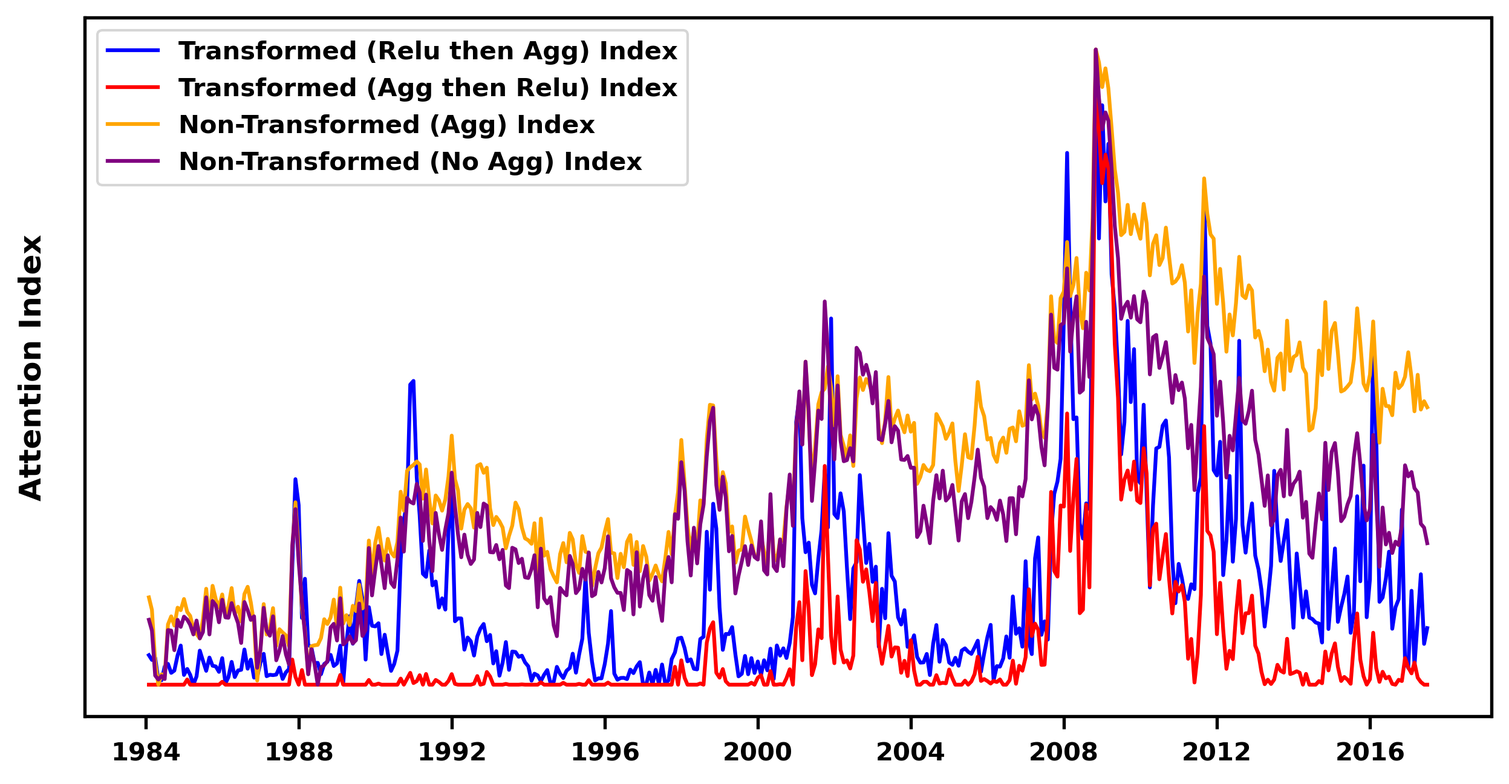
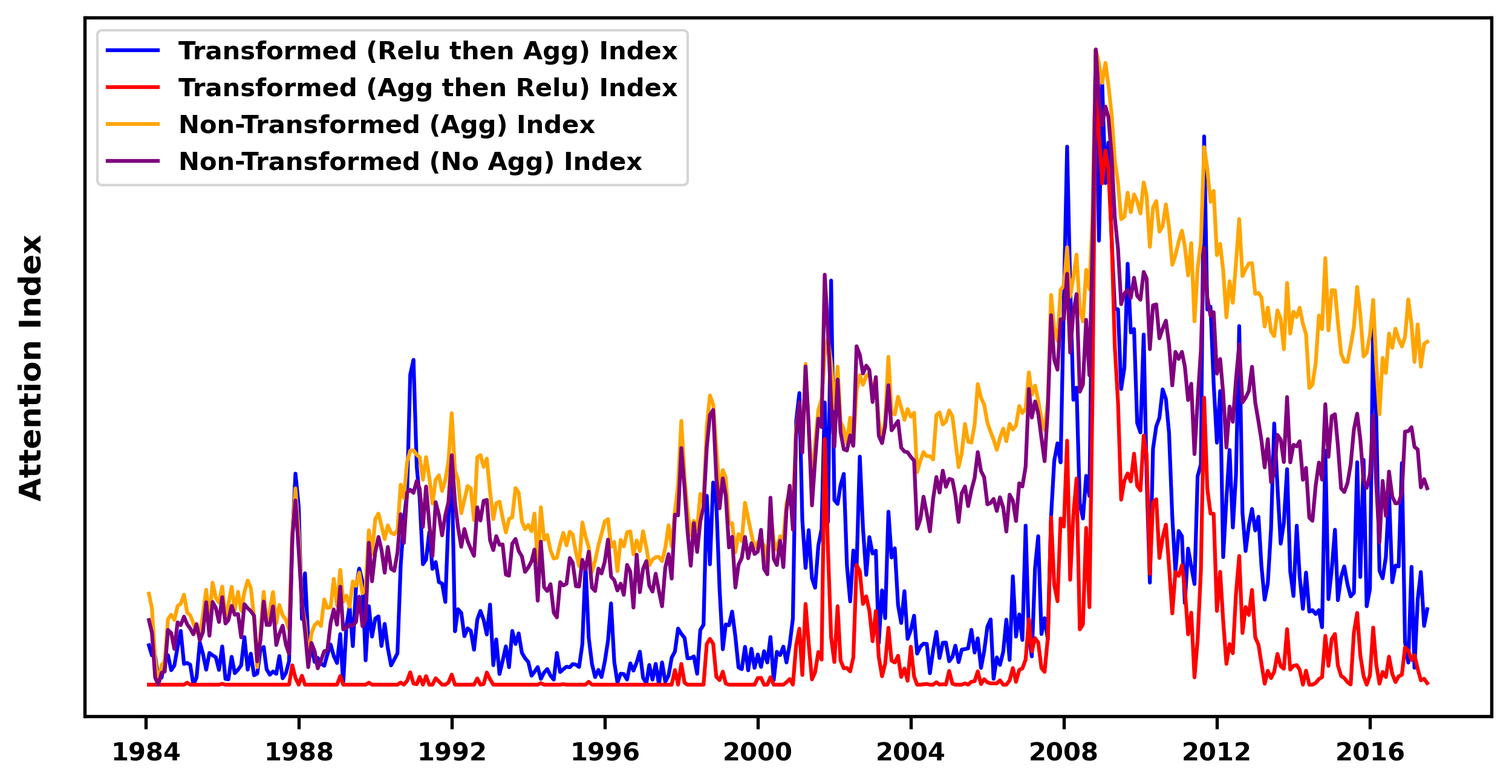
new updated plots with updated legend

Changed region(s): [[0.0926, 0.1235, 0.9567, 0.8951], [0.2469, 0.463, 0.2778, 0.4938], [0.1852, 0.6173, 0.216, 0.6481]]

diff --git a/exec_research/exec_generate/generate_paper_plot.py b/exec_research/exec_generate/generate_paper_plot.py
@@ -83,7 +83,7 @@ if __name__ == "__main__":
     # generate = GenEmb(query=query, expand=expand, info=info, vector_data=vector_data, vector_column=vector_column, article_data=article_data, interval=interval, p_val=p_val)
     # index, expanded_query, threshold = generate.generate_emb()
     # index = generate._join_index(index=index, interval=interval, file_path='esg_google_trend.parquet.brotli')
-    # generate.save(query=query, expanded_query=expanded_query, p_val=p_val, threshold=threshold, pearson=0, index_paper=index[['relu_score', 'official']], index_research=index[['relu_score', 'relu_norm_score', 'agg_norm_score', 'norm_score']], index_name_paper=['ESG', 'ESG (Google Trend)'], index_name_research=['Transformed (Relu then Agg)', 'Transformed (Agg then Relu)', 'Non-Transformed (Agg)', 'Non-Transformed (No Agg)'], output=f'{type}_esg_index')
+    # generate.save(query=query, expanded_query=expanded_query, p_val=p_val, threshold=threshold, pearson=0, index_paper=index[['relu_score', 'official']], index_research=index[['relu_score', 'relu_norm_score', 'agg_norm_score', 'norm_score']], index_name_paper=['Narrative Query: ESG', 'Google Trend: ESG'], index_name_research=['Transformed (Relu then Agg)', 'Transformed (Agg then Relu)', 'Non-Transformed (Agg)', 'Non-Transformed (No Agg)'], output=f'{type}_esg_index')
     #
     # # ------------------------------------------------------------------------------------------------------------------------------------------------------------------------------------------------
     # # ------------------------------------------------------------------------------------------------------------------------------------------------------------------------------------------------
@@ -92,8 +92,8 @@ if __name__ == "__main__":
     # generate = GenEmb(query=query, expand=expand, info=info, vector_data=vector_data, vector_column=vector_column, article_data=article_data, interval=interval, p_val=p_val)
     # index, expanded_query, threshold = generate.generate_emb()
     # index = generate._standardize(index)
-    # generate.save(query=query, expanded_query=expanded_query, p_val=p_val, threshold=threshold, pearson=0, index_paper=index[['relu_score']], index_research=index[['relu_score', 'relu_norm_score', 'agg_norm_score', 'norm_score']], index_name_paper=['Market Crash'], index_name_research=['Transformed (Relu then Agg)', 'Transformed (Agg then Relu)', 'Non-Transformed (Agg)', 'Non-Transformed (No Agg)'], output=f'{type}_marketcrash_index')
-
+    # generate.save(query=query, expanded_query=expanded_query, p_val=p_val, threshold=threshold, pearson=0, index_paper=index[['relu_score']], index_research=index[['relu_score', 'relu_norm_score', 'agg_norm_score', 'norm_score']], index_name_paper=['Narrative Query: Market Crash'], index_name_research=['Transformed (Relu then Agg)', 'Transformed (Agg then Relu)', 'Non-Transformed (Agg)', 'Non-Transformed (No Agg)'], output=f'{type}_marketcrash_index')
+    #
     # # ------------------------------------------------------------------------------------------------------------------------------------------------------------------------------------------------
     # # ------------------------------------------------------------------------------------------------------------------------------------------------------------------------------------------------
     # print("-" * 120)
@@ -101,8 +101,8 @@ if __name__ == "__main__":
     # generate = GenEmb(query=query, expand=expand, info=info, vector_data=vector_data, vector_column=vector_column, article_data=article_data, interval=interval, p_val=p_val)
     # index, expanded_query, threshold = generate.generate_emb()
     # index = generate._standardize(index)
-    # generate.save(query=query, expanded_query=expanded_query, p_val=p_val, threshold=threshold, pearson=0, index_paper=index[['relu_score']], index_research=index[['relu_score', 'relu_norm_score', 'agg_norm_score', 'norm_score']], index_name_paper=['Stock Market Bubble'], index_name_research=['Transformed (Relu then Agg)', 'Transformed (Agg then Relu)', 'Non-Transformed (Agg)', 'Non-Transformed (No Agg)'], output=f'{type}_stockmarketbubble_index')
-
+    # generate.save(query=query, expanded_query=expanded_query, p_val=p_val, threshold=threshold, pearson=0, index_paper=index[['relu_score']], index_research=index[['relu_score', 'relu_norm_score', 'agg_norm_score', 'norm_score']], index_name_paper=['Narrative Query: Stock Market Bubble'], index_name_research=['Transformed (Relu then Agg)', 'Transformed (Agg then Relu)', 'Non-Transformed (Agg)', 'Non-Transformed (No Agg)'], output=f'{type}_stockmarketbubble_index')
+    #
     # # ------------------------------------------------------------------------------------------------------------------------------------------------------------------------------------------------
     # # ------------------------------------------------------------------------------------------------------------------------------------------------------------------------------------------------
     # print("-" * 120)
@@ -110,7 +110,7 @@ if __name__ == "__main__":
     # generate = GenEmb(query=query, expand=expand, info=info, vector_data=vector_data, vector_column=vector_column, article_data=article_data, interval=interval, p_val=p_val)
     # index, expanded_query, threshold = generate.generate_emb()
     # index = generate._standardize(index)
-    # generate.save(query=query, expanded_query=expanded_query, p_val=p_val, threshold=threshold, pearson=0, index_paper=index[['relu_score']], index_research=index[['relu_score', 'relu_norm_score', 'agg_norm_score', 'norm_score']], index_name_paper=['US-China Trade War'], index_name_research=['Transformed (Relu then Agg)', 'Transformed (Agg then Relu)', 'Non-Transformed (Agg)', 'Non-Transformed (No Agg)'], output=f'{type}_uschinatradewar_index')
+    # generate.save(query=query, expanded_query=expanded_query, p_val=p_val, threshold=threshold, pearson=0, index_paper=index[['relu_score']], index_research=index[['relu_score', 'relu_norm_score', 'agg_norm_score', 'norm_score']], index_name_paper=['Narrative Query: US-China Trade War'], index_name_research=['Transformed (Relu then Agg)', 'Transformed (Agg then Relu)', 'Non-Transformed (Agg)', 'Non-Transformed (No Agg)'], output=f'{type}_uschinatradewar_index')
     #
     # # ------------------------------------------------------------------------------------------------------------------------------------------------------------------------------------------------
     # # ------------------------------------------------------------------------------------------------------------------------------------------------------------------------------------------------
@@ -119,7 +119,7 @@ if __name__ == "__main__":
     # generate = GenEmb(query=query, expand=expand, info=info, vector_data=vector_data, vector_column=vector_column, article_data=article_data, interval=interval, p_val=p_val)
     # index, expanded_query, threshold = generate.generate_emb()
     # index = generate._standardize(index)
-    # generate.save(query=query, expanded_query=expanded_query, p_val=p_val, threshold=threshold, pearson=0, index_paper=index[['relu_score']], index_research=index[['relu_score', 'relu_norm_score', 'agg_norm_score', 'norm_score']], index_name_paper=['Artificial Intelligence'], index_name_research=['Transformed (Relu then Agg)', 'Transformed (Agg then Relu)', 'Non-Transformed (Agg)', 'Non-Transformed (No Agg)'], output=f'{type}_ai_index')
+    # generate.save(query=query, expanded_query=expanded_query, p_val=p_val, threshold=threshold, pearson=0, index_paper=index[['relu_score']], index_research=index[['relu_score', 'relu_norm_score', 'agg_norm_score', 'norm_score']], index_name_paper=['Narrative Query: Artificial Intelligence'], index_name_research=['Transformed (Relu then Agg)', 'Transformed (Agg then Relu)', 'Non-Transformed (Agg)', 'Non-Transformed (No Agg)'], output=f'{type}_ai_index')
     #
     # # ------------------------------------------------------------------------------------------------------------------------------------------------------------------------------------------------
     # # ------------------------------------------------------------------------------------------------------------------------------------------------------------------------------------------------
@@ -128,7 +128,7 @@ if __name__ == "__main__":
     # generate = GenEmb(query=query, expand=expand, info=info, vector_data=vector_data, vector_column=vector_column, article_data=article_data, interval=interval, p_val=p_val)
     # index, expanded_query, threshold = generate.generate_emb()
     # index = generate._standardize(index)
-    # generate.save(query=query, expanded_query=expanded_query, p_val=p_val, threshold=threshold, pearson=0, index_paper=index[['relu_score']], index_research=index[['relu_score', 'relu_norm_score', 'agg_norm_score', 'norm_score']], index_name_paper=['Blockchain'], index_name_research=['Transformed (Relu then Agg)', 'Transformed (Agg then Relu)', 'Non-Transformed (Agg)', 'Non-Transformed (No Agg)'], output=f'{type}_blockchain_index')
+    # generate.save(query=query, expanded_query=expanded_query, p_val=p_val, threshold=threshold, pearson=0, index_paper=index[['relu_score']], index_research=index[['relu_score', 'relu_norm_score', 'agg_norm_score', 'norm_score']], index_name_paper=['Narrative Query: Blockchain'], index_name_research=['Transformed (Relu then Agg)', 'Transformed (Agg then Relu)', 'Non-Transformed (Agg)', 'Non-Transformed (No Agg)'], output=f'{type}_blockchain_index')
     #
     # # ------------------------------------------------------------------------------------------------------------------------------------------------------------------------------------------------
     # # ------------------------------------------------------------------------------------------------------------------------------------------------------------------------------------------------
@@ -137,62 +137,61 @@ if __name__ == "__main__":
     # generate = GenEmb(query=query, expand=False, info=info, vector_data=vector_data, vector_column=vector_column, article_data=article_data, interval=interval, p_val=p_val)
     # index, expanded_query, threshold = generate.generate_emb()
     # index = generate._standardize(index)
-    # generate.save(query=query, expanded_query=expanded_query, p_val=p_val, threshold=threshold, pearson=0, index_paper=index[['relu_score']], index_research=index[['relu_score', 'relu_norm_score', 'agg_norm_score', 'norm_score']], index_name_paper=['COVID-19'], index_name_research=['Transformed (Relu then Agg)', 'Transformed (Agg then Relu)', 'Non-Transformed (Agg)', 'Non-Transformed (No Agg)'], output=f'{type}_covid19_index')
-
-    # # ------------------------------------------------------------------------------------------------------------------------------------------------------------------------------------------------
-    # # ------------------------------------------------------------------------------------------------------------------------------------------------------------------------------------------------
-    # print("-" * 120)
-    # query = 'Electric Vehicles'
-    # generate = GenEmb(query=query, expand=expand, info=info, vector_data=vector_data, vector_column=vector_column, article_data=article_data, interval=interval, p_val=p_val)
-    # index, expanded_query, threshold = generate.generate_emb()
-    # index = generate._join_index(index=index, interval=interval, file_path='tsla.parquet.brotli')
-    # generate.save(query=query, expanded_query=expanded_query, p_val=p_val, threshold=threshold, pearson=pearson_corr, index_paper=index[['relu_score', 'official']], index_research=index[['relu_score', 'relu_norm_score', 'agg_norm_score', 'norm_score']], index_name_paper=['Electric Vehicles', 'TSLA Price (WRDS)'], index_name_research=['Transformed (Relu then Agg)', 'Transformed (Agg then Relu)', 'Non-Transformed (Agg)', 'Non-Transformed (No Agg)'], output=f'{type}_ev_index')
-    #
-    # # ------------------------------------------------------------------------------------------------------------------------------------------------------------------------------------------------
-    # # ------------------------------------------------------------------------------------------------------------------------------------------------------------------------------------------------
-    # print("-" * 120)
-    # query = 'US Economic Policy Uncertainty'
-    # generate = GenEmb(query=query, expand=expand, info=info, vector_data=vector_data, vector_column=vector_column, article_data=article_data, interval=interval, p_val=p_val)
-    # index, expanded_query, threshold = generate.generate_emb()
-    # index, pearson_corr = generate._compare_index(index=index, interval=interval, file_path='epu.parquet.brotli')
-    # generate.save(query=query, expanded_query=expanded_query, p_val=p_val, threshold=threshold, pearson=pearson_corr, index_paper=index[['relu_score', 'official']], index_research=index[['relu_score', 'relu_norm_score', 'agg_norm_score', 'norm_score']], index_name_paper=['US EPU', 'US EPU (Baker et al.)'], index_name_research=['Transformed (Relu then Agg)', 'Transformed (Agg then Relu)', 'Non-Transformed (Agg)', 'Non-Transformed (No Agg)'], output=f'{type}_usepu_index')
-    #
-    # # ------------------------------------------------------------------------------------------------------------------------------------------------------------------------------------------------
-    # # ------------------------------------------------------------------------------------------------------------------------------------------------------------------------------------------------
-    # print("-" * 120)
-    # query = 'Inflation'
-    # generate = GenEmb(query=query, expand=expand, info=info, vector_data=vector_data, vector_column=vector_column, article_data=article_data, interval=interval, p_val=p_val)
-    # index, expanded_query, threshold = generate.generate_emb()
-    # index, pearson_corr = generate._compare_index(index=index, interval=interval, file_path='ir.parquet.brotli')
-    # generate.save(query=query, expanded_query=expanded_query, p_val=p_val, threshold=threshold, pearson=pearson_corr, index_paper=index[['relu_score', 'official']], index_research=index[['relu_score', 'relu_norm_score', 'agg_norm_score', 'norm_score']], index_name_paper=['Inflation', '5-Year Breakeven Inflation Rate (FRED)'], index_name_research=['Transformed (Relu then Agg)', 'Transformed (Agg then Relu)', 'Non-Transformed (Agg)', 'Non-Transformed (No Agg)'], output=f'{type}_inflation_index')
-    #
-    # # ------------------------------------------------------------------------------------------------------------------------------------------------------------------------------------------------
-    # # ------------------------------------------------------------------------------------------------------------------------------------------------------------------------------------------------
-    # print("-" * 120)
-    # query = 'Economic Recession'
-    # generate = GenEmb(query=query, expand=expand, info=info, vector_data=vector_data, vector_column=vector_column, article_data=article_data, interval=interval, p_val=p_val)
-    # index, expanded_query, threshold = generate.generate_emb()
-    # index, pearson_corr = generate._compare_index(index=index, interval=interval, file_path='recession.parquet.brotli')
-    # generate.save(query=query, expanded_query=expanded_query, p_val=p_val, threshold=threshold, pearson=pearson_corr, index_paper=index[['relu_score', 'official']], index_research=index[['relu_score', 'relu_norm_score', 'agg_norm_score', 'norm_score']], index_name_paper=['Economic Recession', 'Economic Recession (Bybee et al.)'], index_name_research=['Transformed (Relu then Agg)', 'Transformed (Agg then Relu)', 'Non-Transformed (Agg)', 'Non-Transformed (No Agg)'], output=f'{type}_economicrecession_index')
-    #
-    # # ------------------------------------------------------------------------------------------------------------------------------------------------------------------------------------------------
-    # # ------------------------------------------------------------------------------------------------------------------------------------------------------------------------------------------------
-    # print("-" * 120)
-    # query = 'Systemic Financial Stress'
-    # generate = GenEmb(query=query, expand=expand, info=info, vector_data=vector_data, vector_column=vector_column, article_data=article_data, interval=interval, p_val=p_val)
-    # index, expanded_query, threshold = generate.generate_emb()
-    # index, pearson_corr = generate._compare_index(index=index, interval=interval, file_path='fsi.parquet.brotli')
-    # generate.save(query=query, expanded_query=expanded_query, p_val=p_val, threshold=threshold, pearson=pearson_corr, index_paper=index[['relu_score', 'official']], index_research=index[['relu_score', 'relu_norm_score', 'agg_norm_score', 'norm_score']], index_name_paper=['Systemic Financial Stress', 'Financial Stress (OFR)'], index_name_research=['Transformed (Relu then Agg)', 'Transformed (Agg then Relu)', 'Non-Transformed (Agg)', 'Non-Transformed (No Agg)'], output=f'{type}_fsi_index')
+    # generate.save(query=query, expanded_query=expanded_query, p_val=p_val, threshold=threshold, pearson=0, index_paper=index[['relu_score']], index_research=index[['relu_score', 'relu_norm_score', 'agg_norm_score', 'norm_score']], index_name_paper=['Narrative Query: COVID-19'], index_name_research=['Transformed (Relu then Agg)', 'Transformed (Agg then Relu)', 'Non-Transformed (Agg)', 'Non-Transformed (No Agg)'], output=f'{type}_covid19_index')
 
     # ------------------------------------------------------------------------------------------------------------------------------------------------------------------------------------------------
     # ------------------------------------------------------------------------------------------------------------------------------------------------------------------------------------------------
     print("-" * 120)
-    query = 'Market Volatility'
-    # query = 'Fear Index'
+    query = 'Electric Vehicles'
+    generate = GenEmb(query=query, expand=expand, info=info, vector_data=vector_data, vector_column=vector_column, article_data=article_data, interval=interval, p_val=p_val)
+    index, expanded_query, threshold = generate.generate_emb()
+    index = generate._join_index(index=index, interval=interval, file_path='tsla.parquet.brotli')
+    generate.save(query=query, expanded_query=expanded_query, p_val=p_val, threshold=threshold, pearson=0, index_paper=index[['relu_score', 'official']], index_research=index[['relu_score', 'relu_norm_score', 'agg_norm_score', 'norm_score']], index_name_paper=['Narrative Query: Electric Vehicles', 'WRDS: TSLA Close Price'], index_name_research=['Transformed (Relu then Agg)', 'Transformed (Agg then Relu)', 'Non-Transformed (Agg)', 'Non-Transformed (No Agg)'], output=f'{type}_ev_index')
+
+    # ------------------------------------------------------------------------------------------------------------------------------------------------------------------------------------------------
+    # ------------------------------------------------------------------------------------------------------------------------------------------------------------------------------------------------
+    print("-" * 120)
+    query = 'US Economic Policy Uncertainty'
+    generate = GenEmb(query=query, expand=expand, info=info, vector_data=vector_data, vector_column=vector_column, article_data=article_data, interval=interval, p_val=p_val)
+    index, expanded_query, threshold = generate.generate_emb()
+    index, pearson_corr = generate._compare_index(index=index, interval=interval, file_path='epu.parquet.brotli')
+    generate.save(query=query, expanded_query=expanded_query, p_val=p_val, threshold=threshold, pearson=pearson_corr, index_paper=index[['relu_score', 'official']], index_research=index[['relu_score', 'relu_norm_score', 'agg_norm_score', 'norm_score']], index_name_paper=['Narrative Query: US EPU', 'Baker et al.: US EPU'], index_name_research=['Transformed (Relu then Agg)', 'Transformed (Agg then Relu)', 'Non-Transformed (Agg)', 'Non-Transformed (No Agg)'], output=f'{type}_usepu_index')
+
+    # ------------------------------------------------------------------------------------------------------------------------------------------------------------------------------------------------
+    # ------------------------------------------------------------------------------------------------------------------------------------------------------------------------------------------------
+    print("-" * 120)
+    query = 'Inflation'
+    generate = GenEmb(query=query, expand=expand, info=info, vector_data=vector_data, vector_column=vector_column, article_data=article_data, interval=interval, p_val=p_val)
+    index, expanded_query, threshold = generate.generate_emb()
+    index, pearson_corr = generate._compare_index(index=index, interval=interval, file_path='ir.parquet.brotli')
+    generate.save(query=query, expanded_query=expanded_query, p_val=p_val, threshold=threshold, pearson=pearson_corr, index_paper=index[['relu_score', 'official']], index_research=index[['relu_score', 'relu_norm_score', 'agg_norm_score', 'norm_score']], index_name_paper=['Narrative Query: Inflation', 'FRED: 5-Year Breakeven Inflation Rate'], index_name_research=['Transformed (Relu then Agg)', 'Transformed (Agg then Relu)', 'Non-Transformed (Agg)', 'Non-Transformed (No Agg)'], output=f'{type}_inflation_index')
+
+    # ------------------------------------------------------------------------------------------------------------------------------------------------------------------------------------------------
+    # ------------------------------------------------------------------------------------------------------------------------------------------------------------------------------------------------
+    print("-" * 120)
+    query = 'Economic Recession'
+    generate = GenEmb(query=query, expand=expand, info=info, vector_data=vector_data, vector_column=vector_column, article_data=article_data, interval=interval, p_val=p_val)
+    index, expanded_query, threshold = generate.generate_emb()
+    index, pearson_corr = generate._compare_index(index=index, interval=interval, file_path='recession.parquet.brotli')
+    generate.save(query=query, expanded_query=expanded_query, p_val=p_val, threshold=threshold, pearson=pearson_corr, index_paper=index[['relu_score', 'official']], index_research=index[['relu_score', 'relu_norm_score', 'agg_norm_score', 'norm_score']], index_name_paper=['Narrative Query: Economic Recession', 'Bybee et al.: Economic Recession'], index_name_research=['Transformed (Relu then Agg)', 'Transformed (Agg then Relu)', 'Non-Transformed (Agg)', 'Non-Transformed (No Agg)'], output=f'{type}_economicrecession_index')
+
+    # ------------------------------------------------------------------------------------------------------------------------------------------------------------------------------------------------
+    # ------------------------------------------------------------------------------------------------------------------------------------------------------------------------------------------------
+    print("-" * 120)
+    query = 'Systemic Financial Stress'
+    generate = GenEmb(query=query, expand=expand, info=info, vector_data=vector_data, vector_column=vector_column, article_data=article_data, interval=interval, p_val=p_val)
+    index, expanded_query, threshold = generate.generate_emb()
+    index, pearson_corr = generate._compare_index(index=index, interval=interval, file_path='fsi.parquet.brotli')
+    generate.save(query=query, expanded_query=expanded_query, p_val=p_val, threshold=threshold, pearson=pearson_corr, index_paper=index[['relu_score', 'official']], index_research=index[['relu_score', 'relu_norm_score', 'agg_norm_score', 'norm_score']], index_name_paper=['Narrative Query: Systemic Financial Stress', 'OFR: Financial Stress'], index_name_research=['Transformed (Relu then Agg)', 'Transformed (Agg then Relu)', 'Non-Transformed (Agg)', 'Non-Transformed (No Agg)'], output=f'{type}_fsi_index')
+
+    # ------------------------------------------------------------------------------------------------------------------------------------------------------------------------------------------------
+    # ------------------------------------------------------------------------------------------------------------------------------------------------------------------------------------------------
+    print("-" * 120)
+    query = 'Fear Index'
     generate = GenEmb(query=query, expand=expand, info=info, vector_data=vector_data, vector_column=vector_column, article_data=article_data, interval=interval, p_val=p_val)
     index, expanded_query, threshold = generate.generate_emb()
     index, pearson_corr = generate._compare_index(index=index, interval=interval, file_path='vix_option.parquet.brotli')
-    generate.save(query=query, expanded_query=expanded_query, p_val=p_val, threshold=threshold, pearson=pearson_corr, index_paper=index[['relu_score', 'official']], index_research=index[['relu_score', 'relu_norm_score', 'agg_norm_score', 'norm_score']], index_name_paper=['Fear Index', 'CBOE Volatility (FRED)'], index_name_research=['Transformed (Relu then Agg)', 'Transformed (Agg then Relu)', 'Non-Transformed (Agg)', 'Non-Transformed (No Agg)'], output=f'{type}_vix_index')
+    generate.save(query=query, expanded_query=expanded_query, p_val=p_val, threshold=threshold, pearson=pearson_corr, index_paper=index[['relu_score', 'official']], index_research=index[['relu_score', 'relu_norm_score', 'agg_norm_score', 'norm_score']], index_name_paper=['Narrative Query: Fear Index', 'FRED: CBOE Volatility'], index_name_research=['Transformed (Relu then Agg)', 'Transformed (Agg then Relu)', 'Non-Transformed (Agg)', 'Non-Transformed (No Agg)'], output=f'{type}_vix_index')
 
     # # ------------------------------------------------------------------------------------------------------------------------------------------------------------------------------------------------
     # # ------------------------------------------------------------------------------------------------------------------------------------------------------------------------------------------------
@@ -201,7 +200,7 @@ if __name__ == "__main__":
     # generate = GenEmb(query=query, expand=False, info=info, vector_data=vector_data, vector_column=vector_column, article_data=article_data, interval=interval, p_val=p_val)
     # index, expanded_query, threshold = generate.generate_emb()
     # index = generate._standardize(index)
-    # generate.save(query=query, expanded_query=expanded_query, p_val=p_val, threshold=threshold, pearson=0, index_paper=index[['relu_score']], index_research=index[['relu_score', 'relu_norm_score', 'agg_norm_score', 'norm_score']], index_name_paper=['Information Theory'], index_name_research=['Transformed (Relu then Agg)', 'Transformed (Agg then Relu)', 'Non-Transformed (Agg)', 'Non-Transformed (No Agg)'], output=f'{type}_informationtheory_index')
+    # generate.save(query=query, expanded_query=expanded_query, p_val=p_val, threshold=threshold, pearson=0, index_paper=index[['relu_score']], index_research=index[['relu_score', 'relu_norm_score', 'agg_norm_score', 'norm_score']], index_name_paper=['Narrative Query: Information Theory'], index_name_research=['Transformed (Relu then Agg)', 'Transformed (Agg then Relu)', 'Non-Transformed (Agg)', 'Non-Transformed (No Agg)'], output=f'{type}_informationtheory_index')
     # index[['relu_score']].to_csv(f'../../view_attention/{type}_informationtheory_index/monthly_index.csv')
     # generate.daily_before_agg_index.to_csv(f'../../view_attention/{type}_informationtheory_index/daily_before_agg_index.csv')
     # generate.daily_after_agg_index.to_csv(f'../../view_attention/{type}_informationtheory_index/daily_after_agg_index.csv')

diff --git a/exec_research/class_generate/gen_emb.py b/exec_research/class_generate/gen_emb.py
@@ -137,8 +137,9 @@ class GenEmb:
         if not official_index.index.freqstr == interval:
             official_index = official_index.resample(interval).mean()
         # Join official index to generated index
-        # index = index.join(official_index).dropna()
-        index = index.join(official_index)
+        # TODO
+        index = index.join(official_index).dropna()
+        # index = index.join(official_index)
         # Min-max scale all indexes to 0 and 1
         scaler = MinMaxScaler(feature_range=(0, 1))
         columns_to_scale = ['relu_score', 'relu_norm_score', 'agg_norm_score', 'norm_score', 'official']
@@ -199,7 +200,7 @@ class GenEmb:
 
         # Plot each line for index_paper (Plot to put in Paper)
         for i, (column, name) in enumerate(zip(index_paper.columns, index_name_paper)):
-            plt.plot(index_paper.index, index_paper[column], label=f"{name} Index", color=colors[i % len(colors)])
+            plt.plot(index_paper.index, index_paper[column], label=f"{name}", color=colors[i % len(colors)])
 
         # Set up legend, x-axis, y-axis, and grid
         plt.legend(fontsize='medium', prop={'weight': 'semibold'}, loc='upper left')
